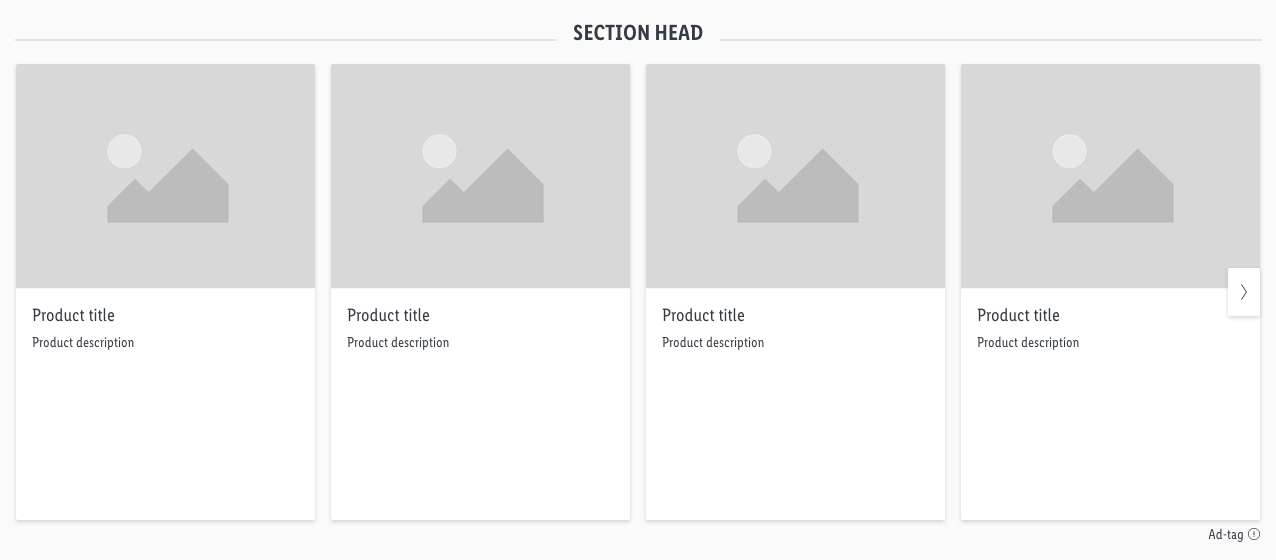
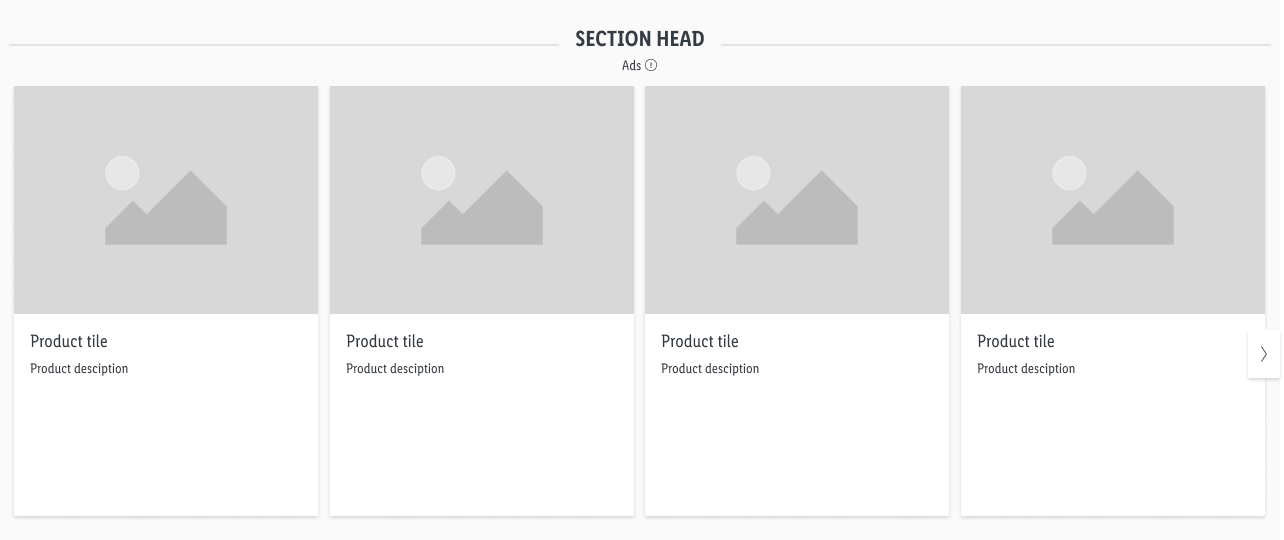
Release version 11.1.0+doc.1

diff --git a/.docs/Components/Ad-tag/Ad-tag.md b/.docs/Components/Ad-tag/Ad-tag.md
@@ -18,9 +18,12 @@ Ad-tag component shows to the user that certain component is used for advertisin
 
 - The symbol has a general basic-white background for image advertisements.
 - The background can be changed to the transparent background when it is placed below a component, e.g. recommendation slider.
-- The ad-tag with transperency background works only on light backgrounds such as e.g gray-background.
-- The expression exclamation-circle icon is **optional** and can trigger a [popover](../Popover/Popover.md).
-- The text-length is limited to a **single word** only.
+- The ad-tag with transparency background works only on light backgrounds such as e.g gray-background.
+- The expression exclamation-circle is **optional** for banner elements.
+- The expression exclamation-circle is **required** for Product Listing ads.
+- The expression exclamation-circle icon triggers a [popover](../Popover/Popover.md).
+- The text-length is limited to a **single word** only and must be plural if more than one ad is labelled with a single ad-tag.
+
 
 | Size | Attributes | Preview | Variants |
 |---|---|---|---|
@@ -57,7 +60,7 @@ Ad-tag component shows to the user that certain component is used for advertisin
 | Position | Preview |
 |---|---|
 | Image ad | ![example: image](assets/example/image@1x.png) |
-| Reco slider ad | ![example: reco slider](assets/example/reco-slider@1x.png) |
+| Reco slider ad | ![example: reco slider](assets/example/reco-slider@1x.png) <br>From legal perspective it is necessary to use the plural form of the text, so that it is clear that all products in the slider are ads. |
 | Product tile ad| ![example: product tile](assets/example/product-tile@1x.png) |
 
 ---

diff --git a/.docs/Components/Ad-tag/_changelog.md b/.docs/Components/Ad-tag/_changelog.md
@@ -1,5 +1,11 @@
 # Change log
 
+## [11.1.0+doc.1 Fundamental](https://github.com/cake-hub/lidl-sketch/tree/v11.1.0+doc.1) & [11.1.0+doc.1 Web](https://github.com/cake-hub/lidl-web-sketch/tree/v11.1.0+doc.1) - 2022-10-04
+
+### Changed
+
+* `Doc`: "Ad-tag" | Legal popover explanation and updated reco slider example
+
 ## [10.0.0 Fundamental](https://github.com/cake-hub/lidl-sketch/tree/v10.0.0) & [10.0.0 Web](https://github.com/cake-hub/lidl-web-sketch/tree/v10.0.0) - 2022-05-30
 
 ### Changed
